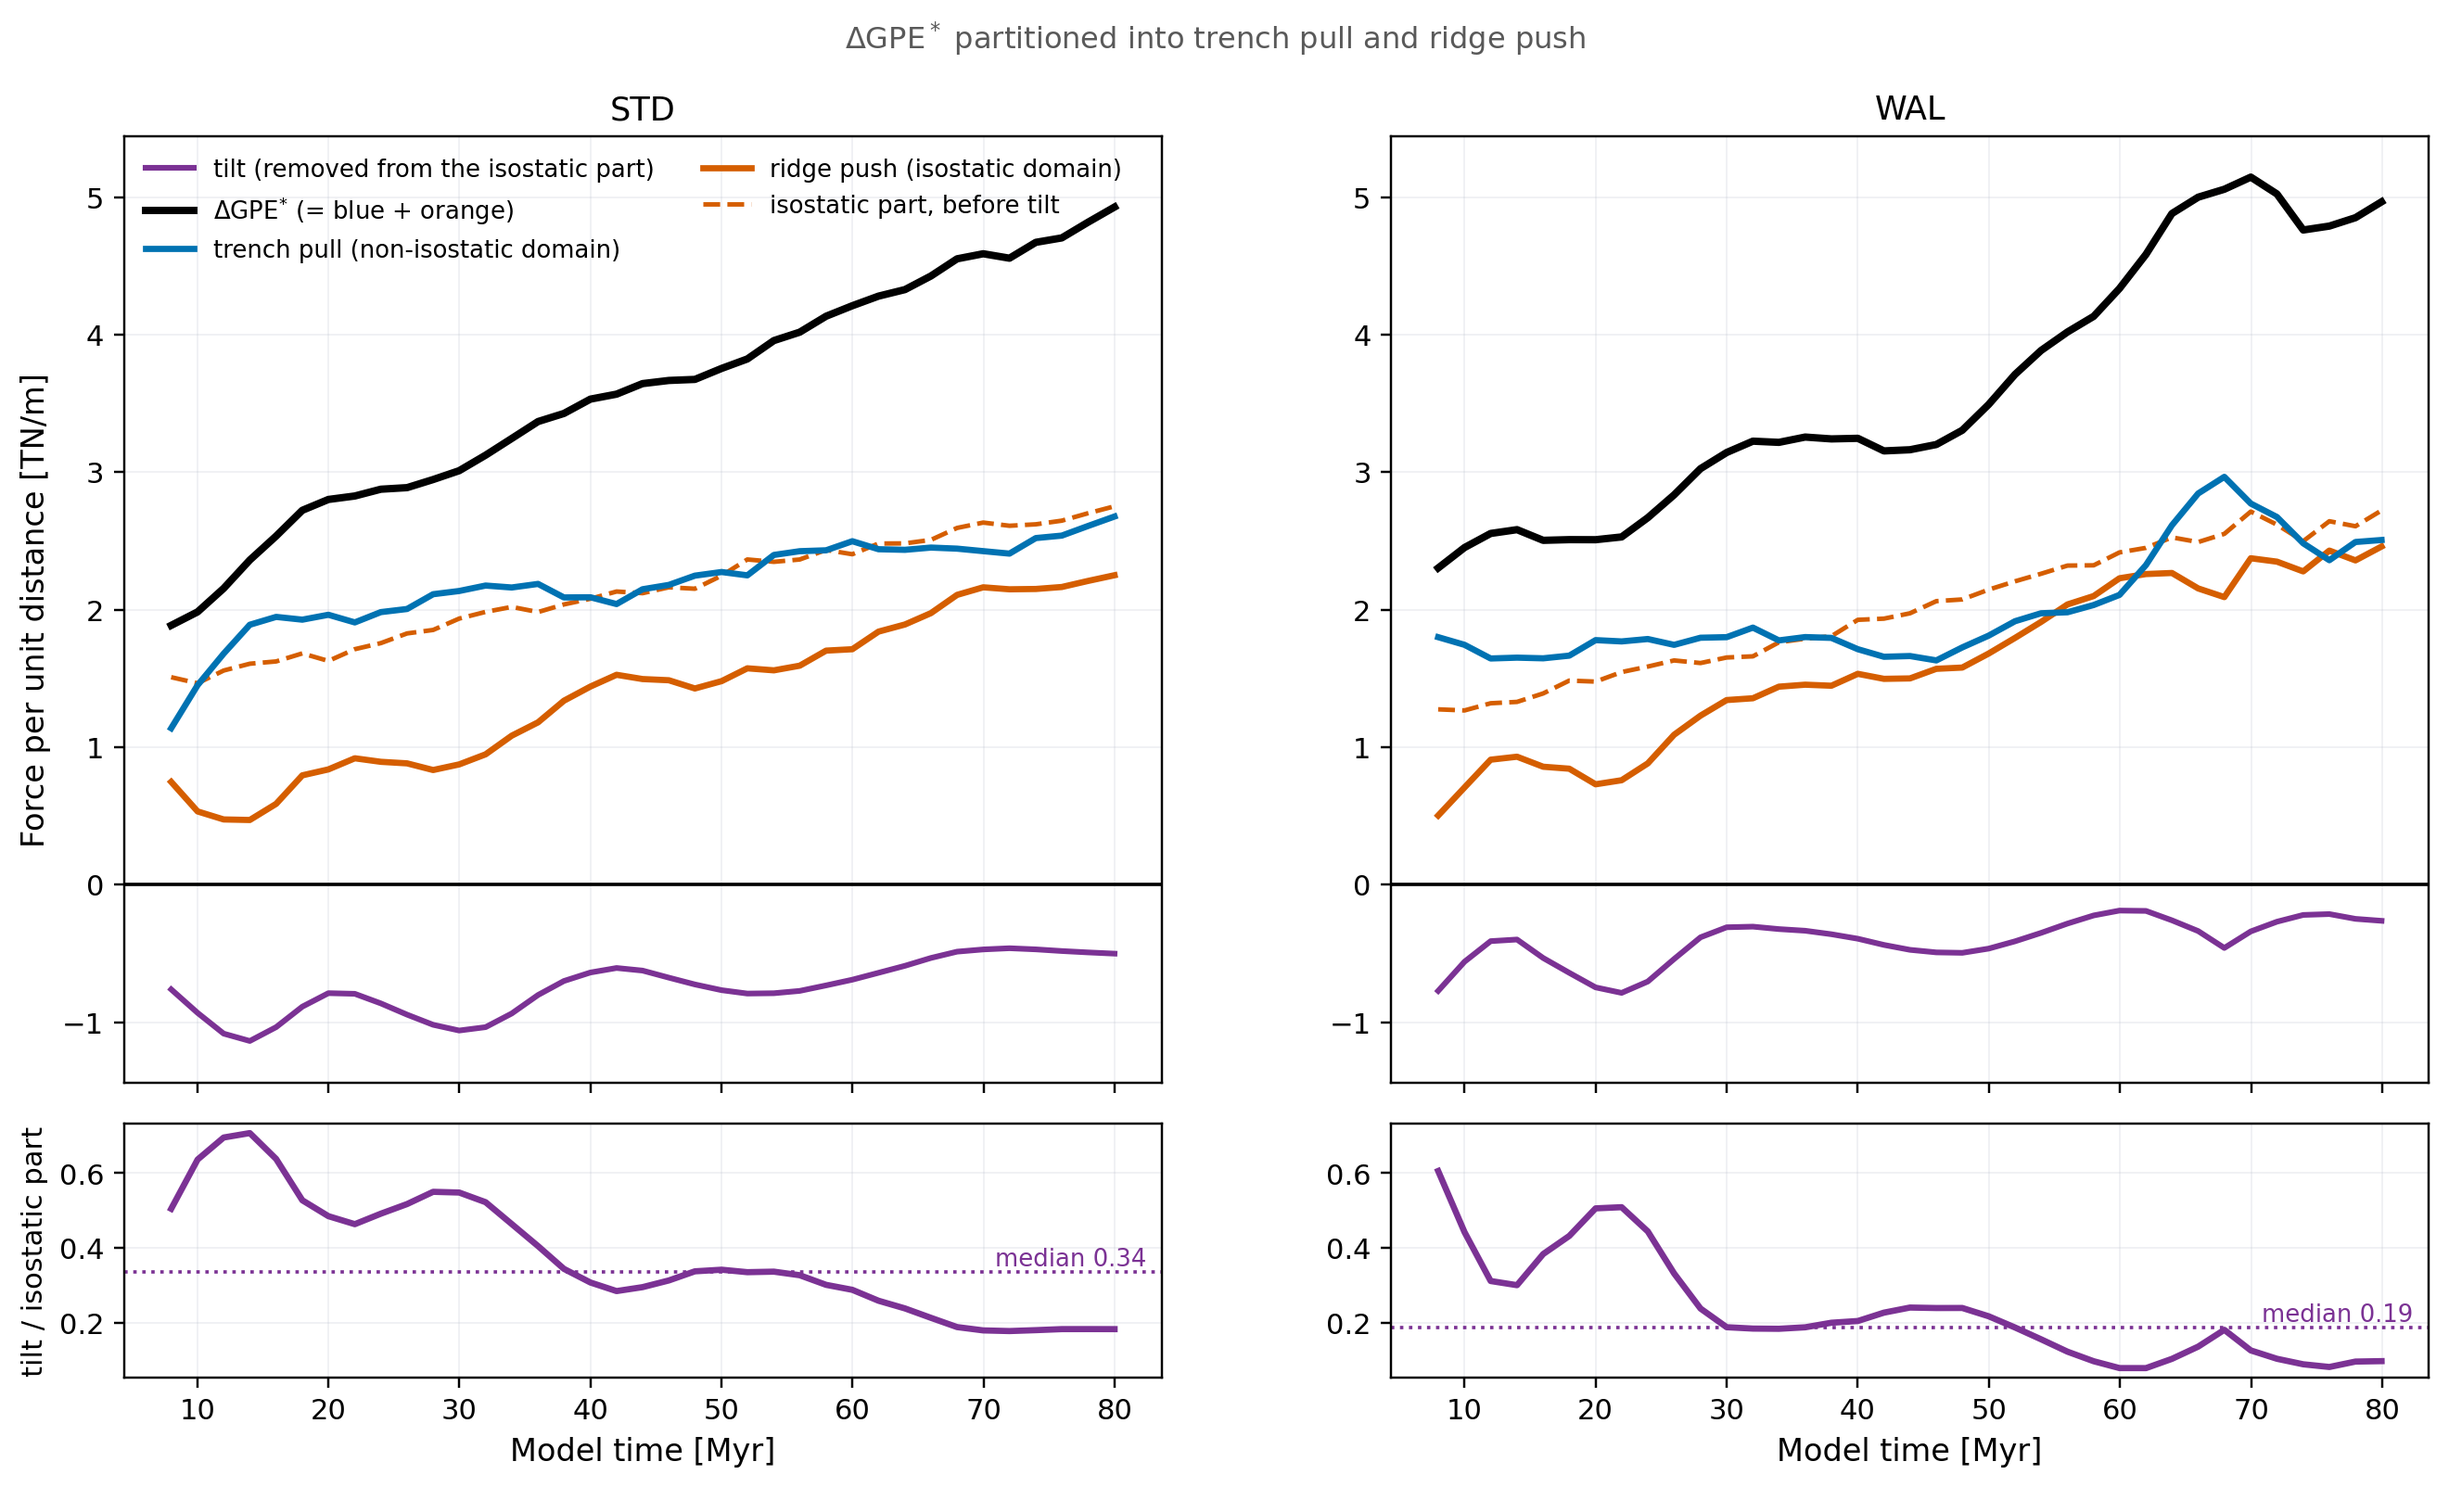
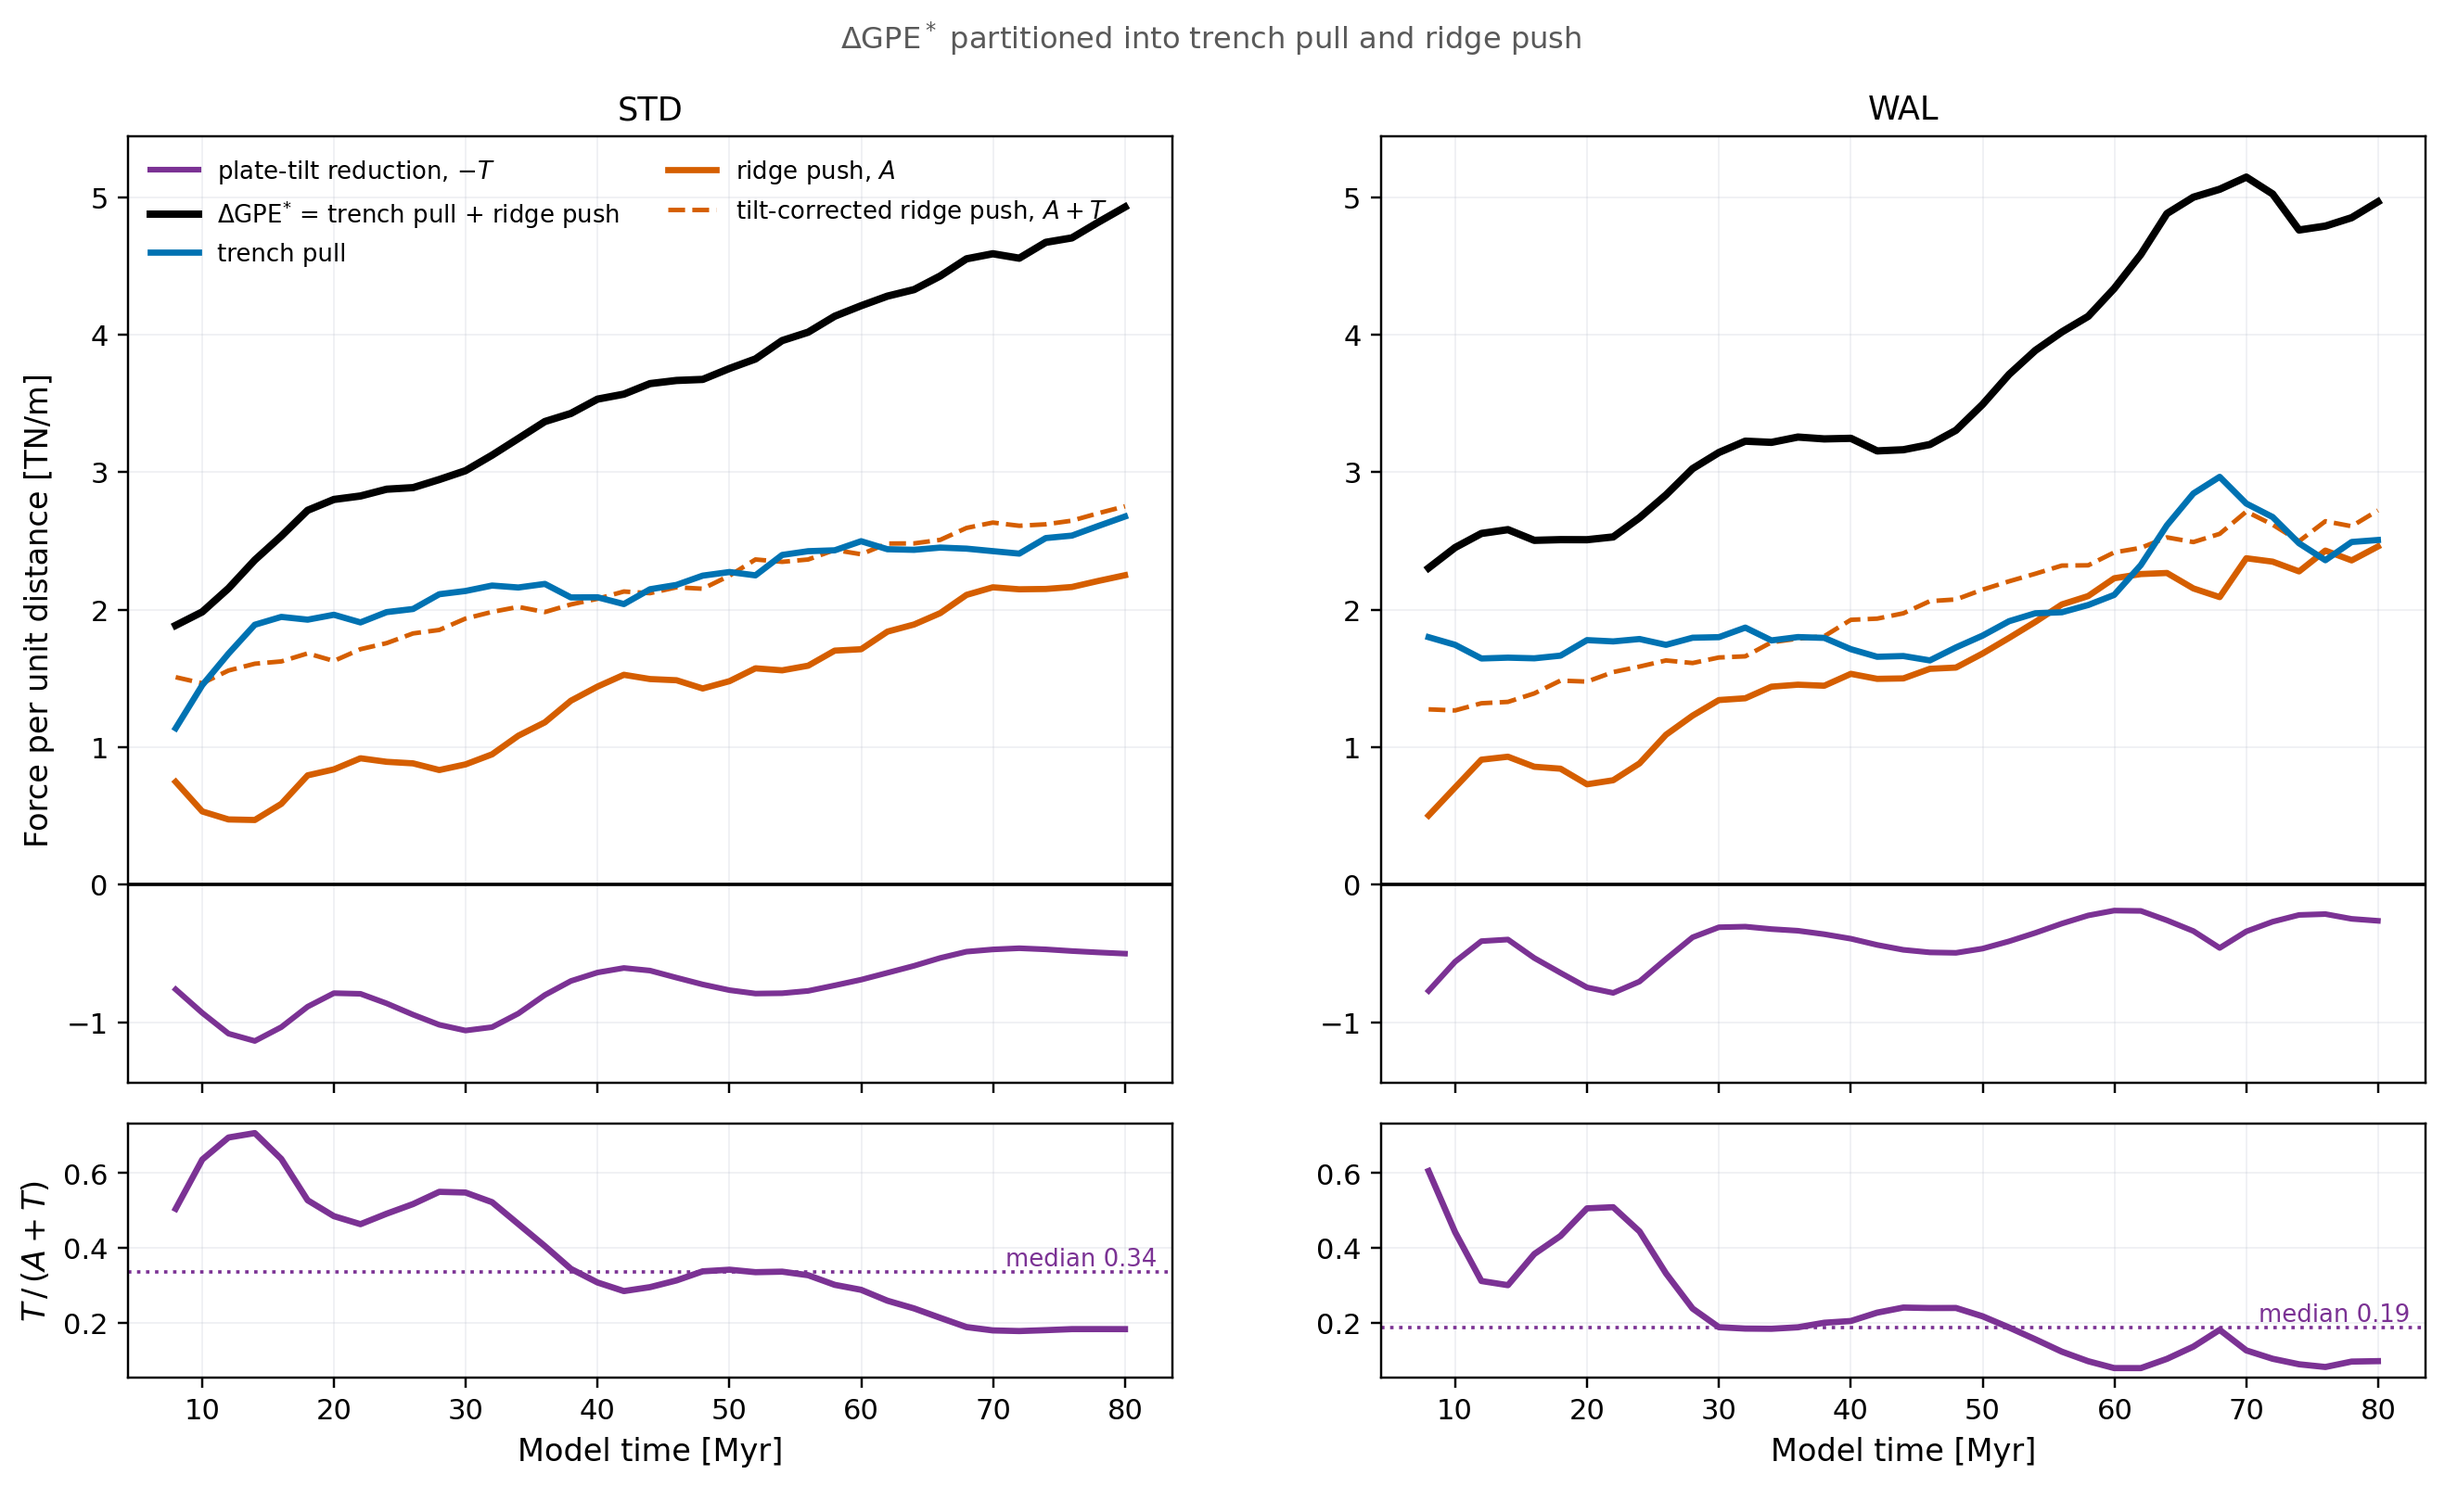
S11, S12: the ridge-push terminology handoff applied
Dan's handoff separates DOMAIN terms (ridge side, trench side) from FORCE
terms (ridge push, trench pull) and fixes the five ridge-side quantities.
Both figures were using domain words to name forces.

S11 fig_gpe_partition, every curve relabelled:
  'isostatic part, before tilt'          -> tilt-corrected ridge push, A+T
  'ridge push (isostatic domain)'        -> ridge push, A
  'trench pull (non-isostatic domain)'   -> trench pull
  'tilt (removed from the isostatic part)' -> plate-tilt reduction, -T
  ylabel 'tilt / isostatic part'         -> T / (A+T)
and the total, which was labelled by colour -- '(= blue + orange)' --
now names its own terms.

The signed convention follows the handoff: the purple curve is a signed
contribution in a driving-positive budget, so it is -T.

S12 fig_ridge_push_anatomy: the suptitle said 'in the isostatic domain'.
The domain term is the ridge side.

TABLE KEYS NOT TOUCHED, and three of them still carry banned words:
  ridge_push_anatomy.csv  A_reported_ridge_push_TNm   ('reported')
  ridge_push_anatomy.csv  static_over_reported        ('reported')
  gpe_partition.csv       isostatic_part_*            (domain word, force)
They are internal and never rendered; static_over_reported and three
isostatic_part_* keys are cited by name in si.tex, so renaming them is
the paper agent's call, not a change to make unilaterally before
submission.

diff --git a/scripts/fig_gpe_partition.py b/scripts/fig_gpe_partition.py
@@ -176,15 +176,15 @@ def main():
         a0, a1 = axes[0, col], axes[1, col]
         a0.axhline(0, color='k', lw=1.2)
         a0.plot(t, DENS, '--', color=C_RIDGE, lw=1.6,
-                label='isostatic part, before tilt')
+                label=r'tilt-corrected ridge push, $A+T$')
         a0.plot(t, RP, '-', color=C_RIDGE, lw=2.2,
-                label='ridge push (isostatic domain)')
+                label=r'ridge push, $A$')
         a0.plot(t, TP, '-', color=C_TRENCH, lw=2.2,
-                label='trench pull (non-isostatic domain)')
+                label='trench pull')
         a0.plot(t, TOT, '-', color=C_TOTAL, lw=2.6,
-                label=r'$\Delta\mathrm{GPE}^{*}$ (= blue + orange)')
+                label=r'$\Delta\mathrm{GPE}^{*}$ = trench pull + ridge push')
         a0.plot(t, -TILT, '-', color=C_TILT, lw=2.0,
-                label='tilt (removed from the isostatic part)')
+                label=r'plate-tilt reduction, $-T$')
         a0.set_title(key, fontsize=11.5)
         a0.grid(alpha=0.25, color=C_RULE, lw=0.6)
 
@@ -248,7 +248,8 @@ def main():
         for ax in axes[row, :]:
             ax.set_ylim(lo, hi)
     axes[0, 0].set_ylabel('Force per unit distance [TN/m]', fontsize=11)
-    axes[1, 0].set_ylabel('tilt / isostatic part', fontsize=10)
+    # the plotted ratio is TILT / DENS, i.e. T / (A + T)
+    axes[1, 0].set_ylabel(r'$T\,/\,(A+T)$', fontsize=11)
     h, l = axes[0, 0].get_legend_handles_labels()
     axes[0, 0].legend(h[::-1], l[::-1], frameon=False, fontsize=8.5,
                       loc='upper left', ncol=2)

diff --git a/scripts/fig_ridge_push_anatomy.py b/scripts/fig_ridge_push_anatomy.py
@@ -335,7 +335,8 @@ def main():
                  (key, 'surface_supplied_over_demanded', f'{unt[0]/dens[0]:.3f}')]
 
     axes[0, 0].set_ylim(Z_DEEP_KM, 0)
-    fig.suptitle('Pressure anomaly and force integral in the isostatic domain',
+    # 'isostatic domain' is a domain word; the domain term is the ridge side
+    fig.suptitle('Pressure anomaly and force integral on the ridge side',
                  fontsize=11.5, color='0.35')
     out = os.path.join(ROOT, 'figures', 'fig_ridge_push_anatomy.png')
     depth_ticks(fig)   # 20 km depth ticks (FIGURE_STYLE)
